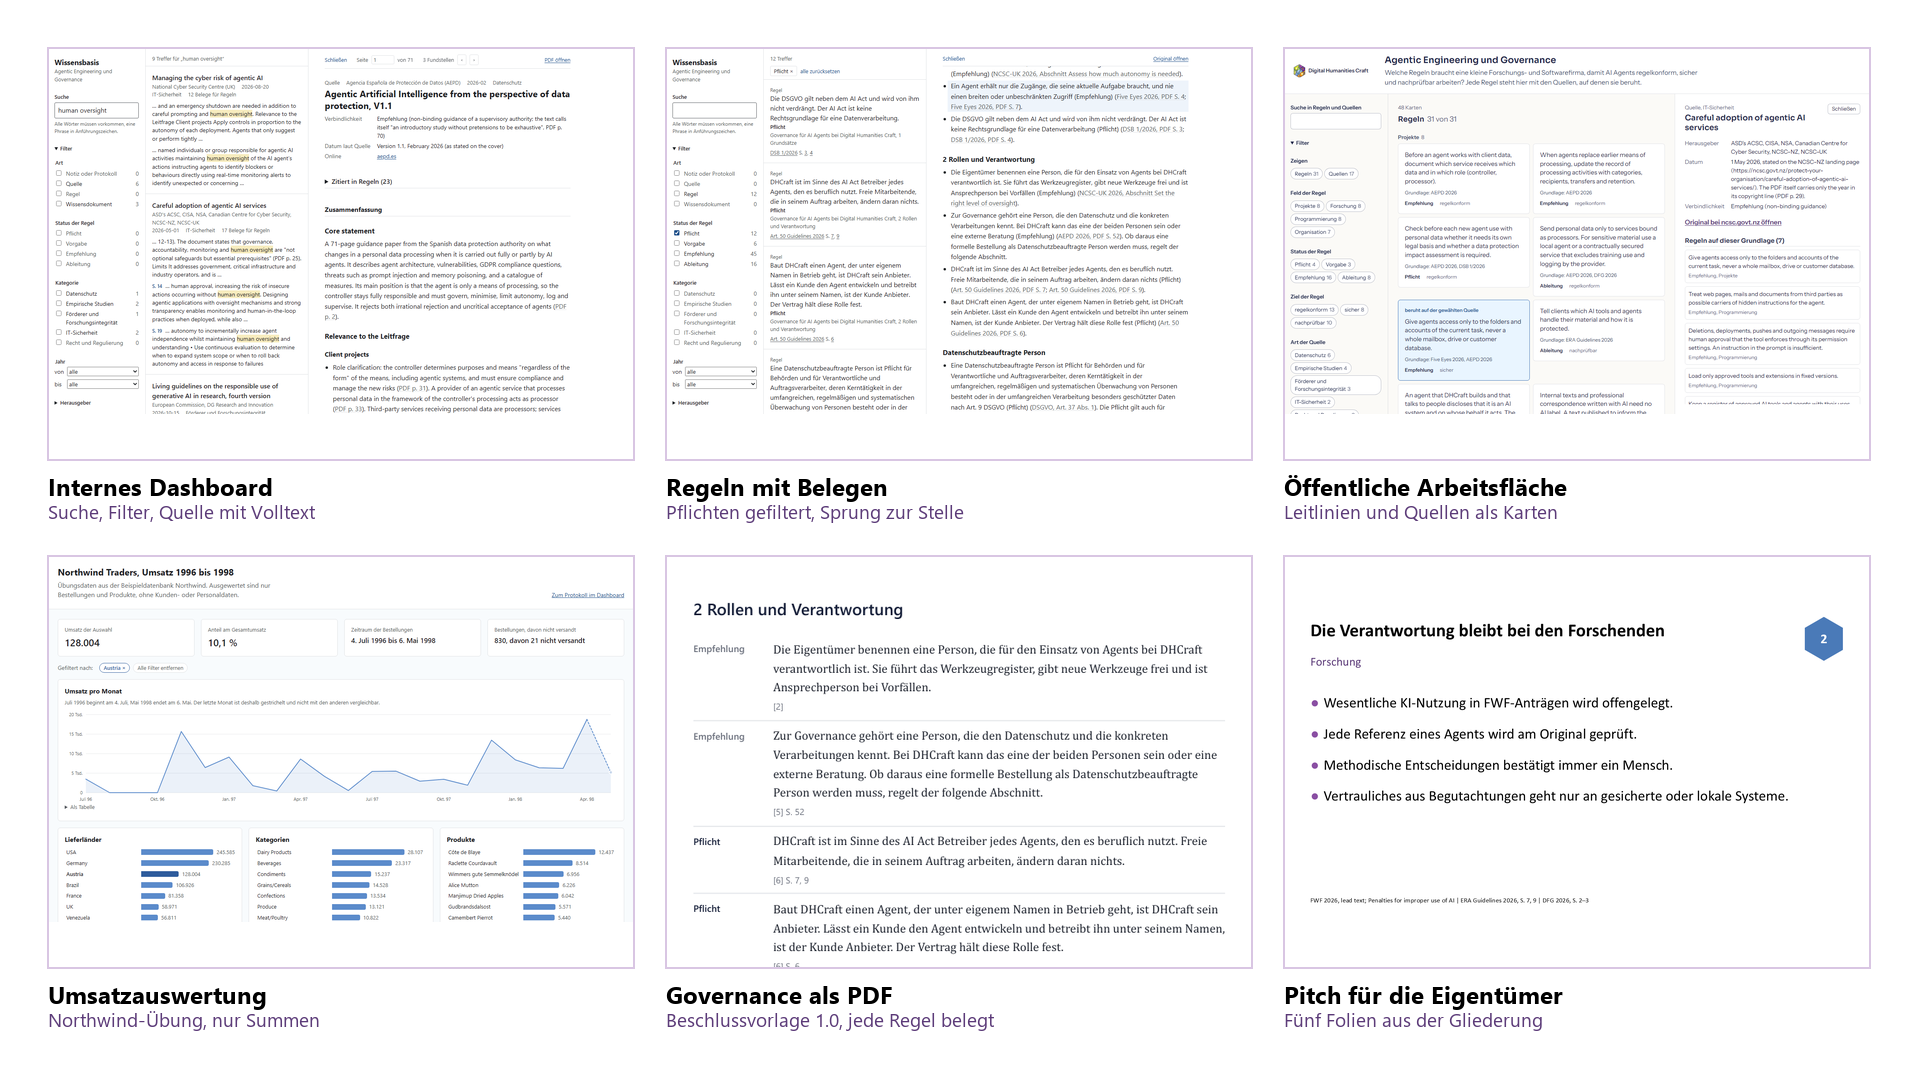
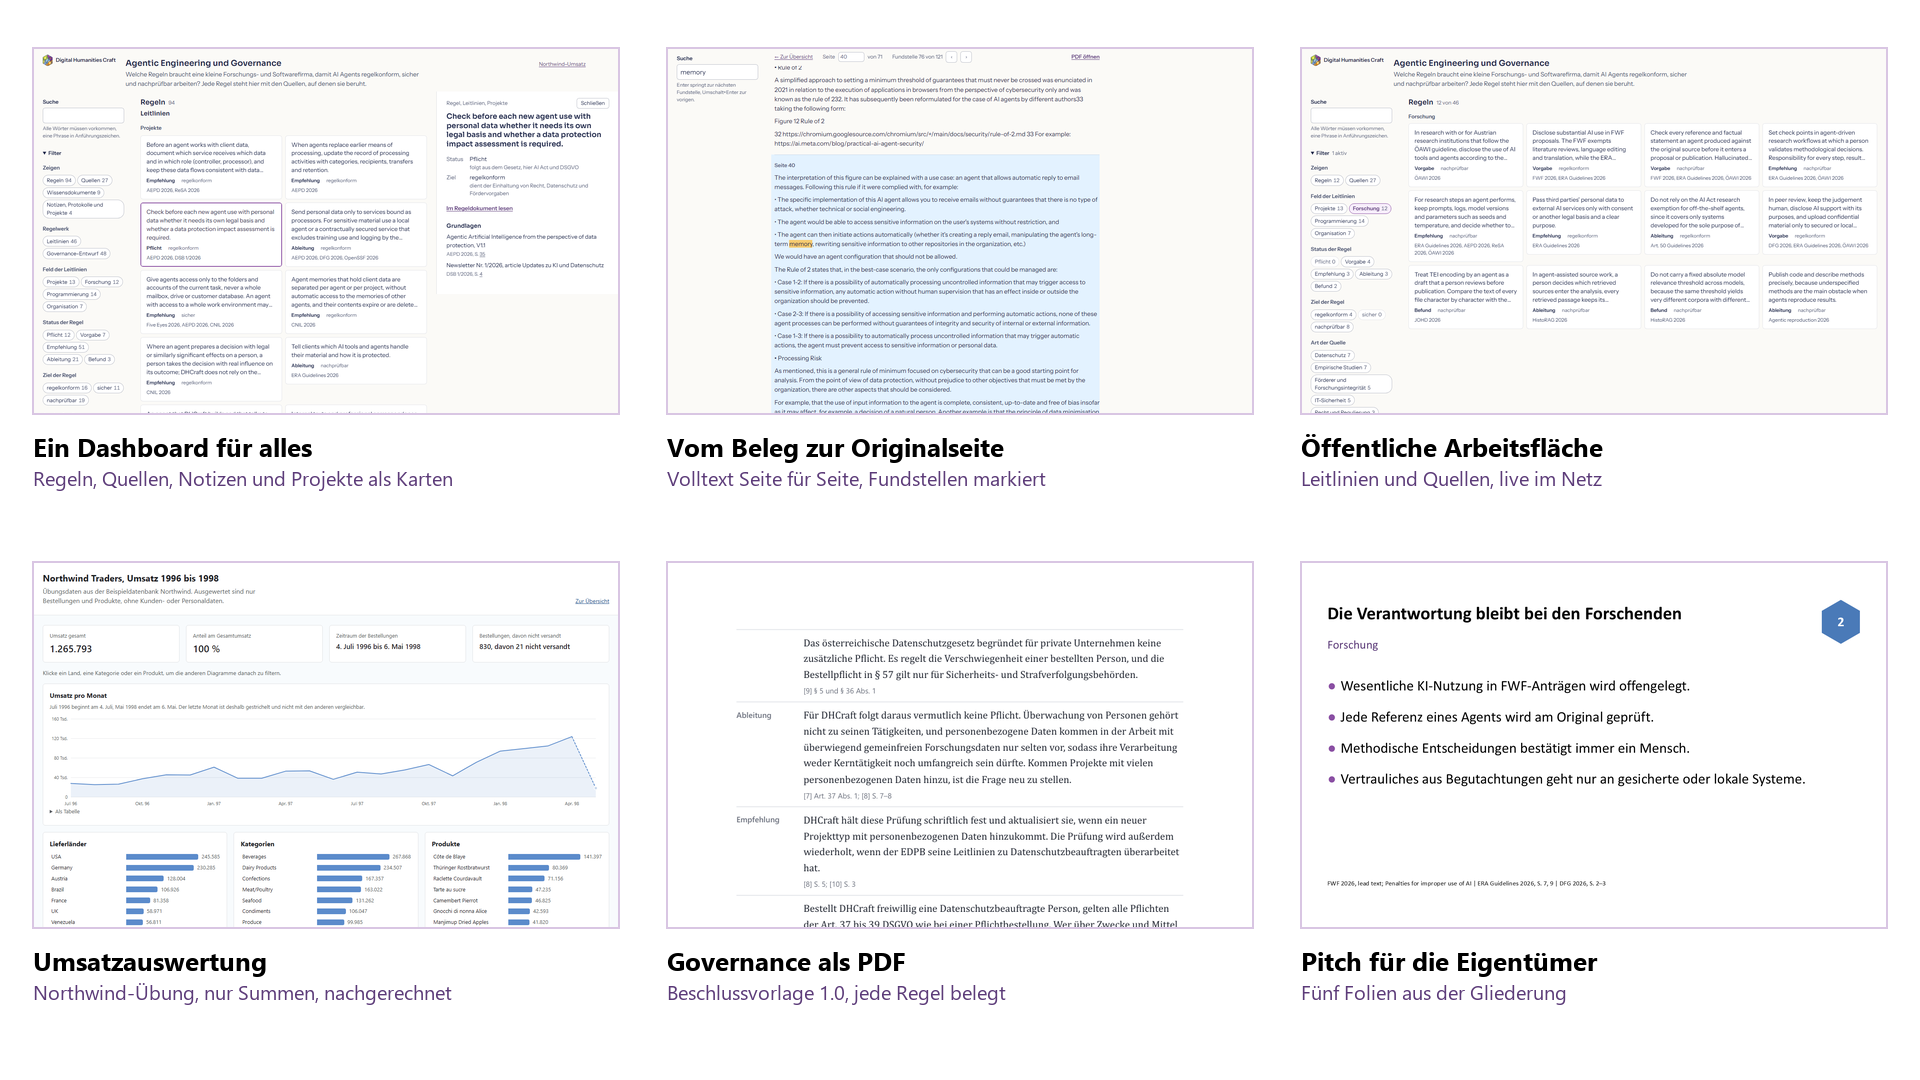
Show the current result image and state the date range of the sources precisely

diff --git a/index.html b/index.html
@@ -19,12 +19,12 @@
   <main>
     <section class="intro">
       <h1>Agentic Engineering und Governance</h1>
-      <p>Welche Regeln braucht eine kleine Forschungs- und Softwarefirma in Graz, damit AI Agents regelkonform, sicher und nachprüfbar arbeiten? Diese Seite zeigt, was in einem Workshop am 5. November 2026 aus einer quellengestützten Wissensbasis entstanden ist. Jede Regel beruht auf einer Quelle aus dem Jahr 2026 und nennt die Seite, auf der sie steht.</p>
+      <p>Welche Regeln braucht eine kleine Forschungs- und Softwarefirma in Graz, damit AI Agents regelkonform, sicher und nachprüfbar arbeiten? Diese Seite zeigt, was in einem Workshop am 5. November 2026 aus einer quellengestützten Wissensbasis entstanden ist. Jede Regel nennt ihre Quellen mit der Seite, auf der sie stehen. Die Quellen stammen aus dem Jahr 2026, ergänzt um wenige ältere Rechtstexte.</p>
     </section>
 
     <figure class="result">
-      <img src="material/endergebnis_wissensbasis.png" alt="Sechs Ansichten des Ergebnisses: internes Dashboard, Regeln mit Belegen, öffentliche Arbeitsfläche, Umsatzauswertung, Governance als PDF und Pitch" width="1920" height="1080">
-      <figcaption>Das Ergebnis in sechs Ansichten. Das interne Dashboard mit den Volltexten der Quellen bleibt lokal.</figcaption>
+      <img src="material/endergebnis_wissensbasis.png" alt="Sechs Ansichten des Ergebnisses: Dashboard mit Karten, Lesebereich mit Originalseite, öffentliche Arbeitsfläche, Umsatzauswertung, Governance als PDF und Pitch" width="1920" height="1080">
+      <figcaption>Das Ergebnis in sechs Ansichten. Das interne Dashboard mit Volltexten, Notizen und Projekten bleibt lokal, die öffentliche Arbeitsfläche nutzt dieselbe Oberfläche ohne sie.</figcaption>
     </figure>
 
     <ul class="entries">
